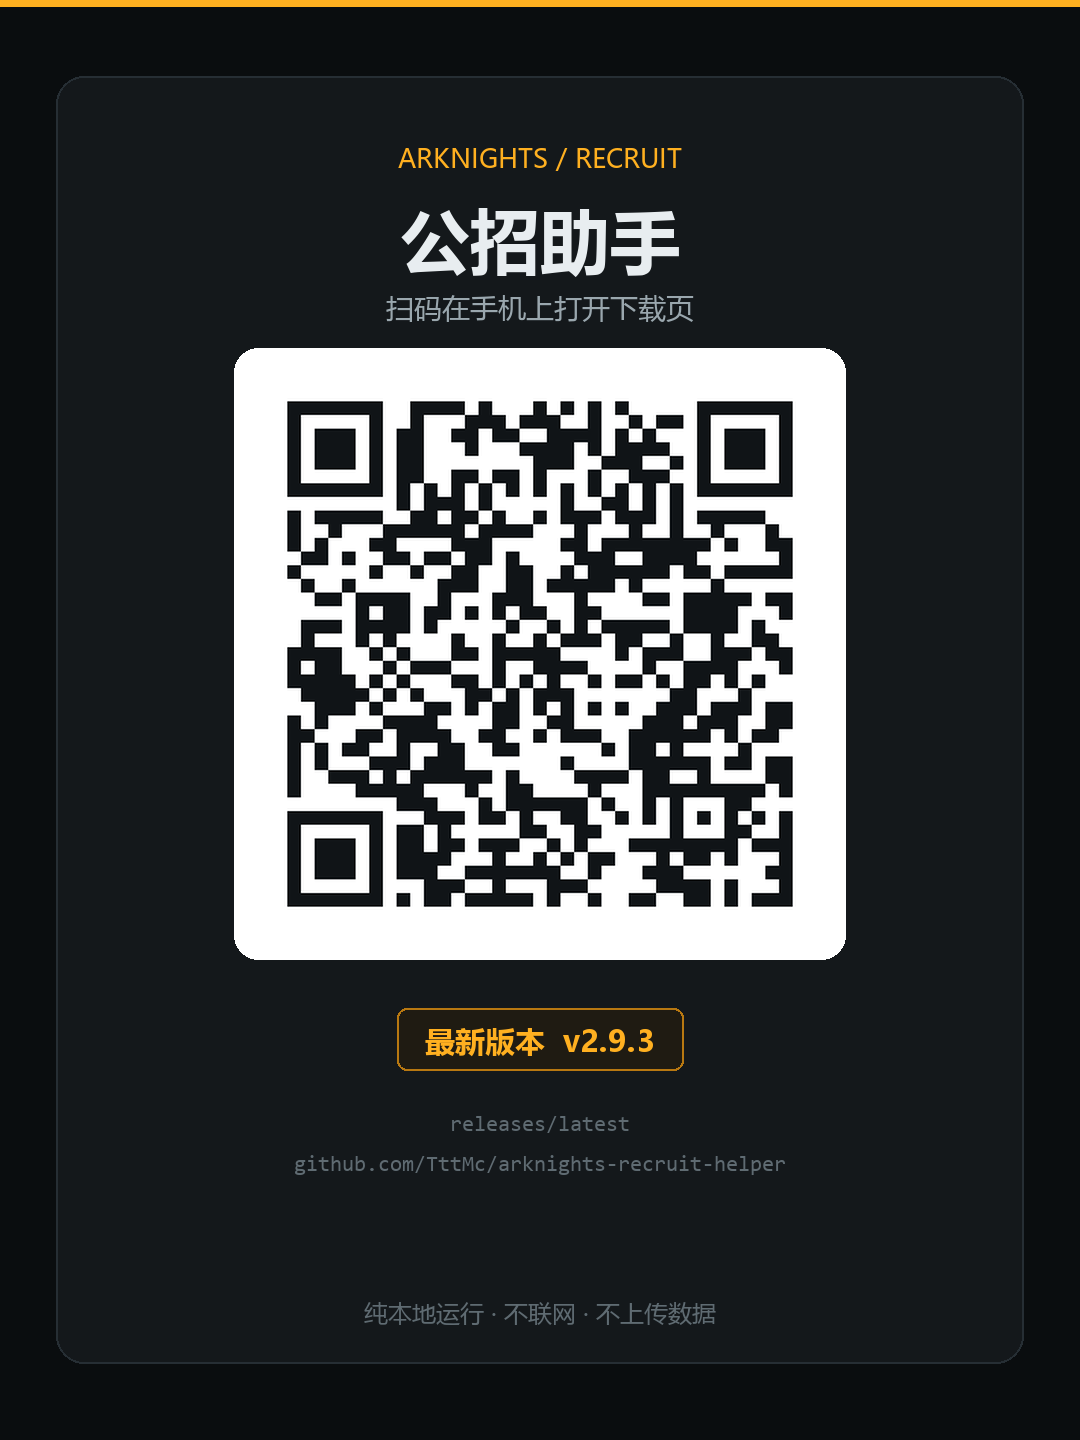
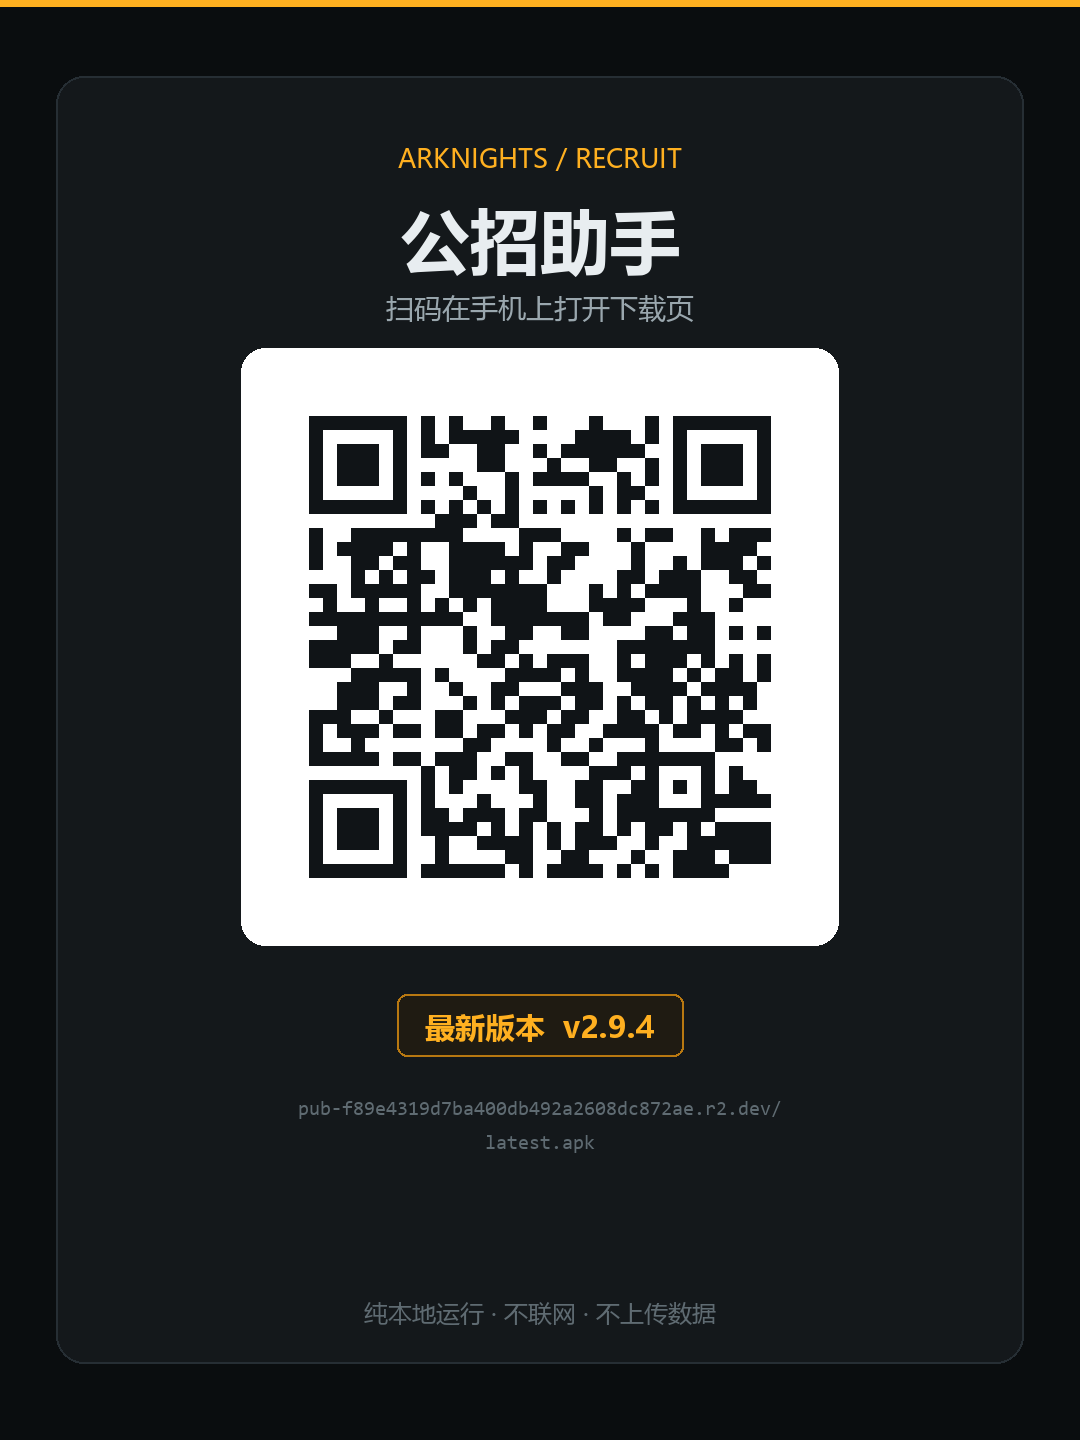
feat: default download via Cloudflare R2 (16x faster in CN)
实测同一台机器同一个包：GitHub 17 KB/s，R2 275 KB/s。
- MainActivity: 主按钮改指 R2 latest.apk，GitHub 降为次要入口
- make-qr.py: 默认 URL 换成 R2；修复 QR 缩放导致无法解码的 bug
  （LANCZOS 非整数倍缩放会把模块边缘插值成灰边，pyzbar/手机扫不出来；
   改为按模块数反算整数 box_size 直接渲染，不做 resize）
- README: 双下载入口、R2 发布流程、arm64 说明
- 重新生成二维码（已用 pyzbar 验证可解码）

Changed region(s): [[0.2139, 0.25, 0.7944, 0.8125], [0.275, 0.75, 0.3361, 0.8125], [0.6722, 0.7812, 0.7028, 0.8125]]

diff --git a/src/com/ark/recruit/MainActivity.java b/src/com/ark/recruit/MainActivity.java
@@ -32,13 +32,19 @@ public class MainActivity extends Activity {
     static final String KEY_RC = "proj_result_code";
 
     /**
-     * 发布页地址（永远指向最新一份 Release）。
+     * 默认下载地址：Cloudflare R2（国内下得动）。
      *
-     * ★ 改仓库名时只改这一行 ★
-     * /releases/latest 是 GitHub 的固定重定向，新版本传上去后这个地址不变，
-     * 所以不需要每次发版都改代码。用户在浏览器里还能顺手存成书签。
+     * ★ 发新版后不用改这里 ★ —— R2 上固定有一个 latest.apk，每次发布覆盖它。
+     *
+     * 为什么默认不用 GitHub：实测国内直连 github.com 只有约 17 KB/s
+     * （15MB 要下 15 分钟以上，还经常断），而同一个包从 R2 拉是约 286 KB/s，
+     * 快 17 倍。GitHub 发布页仍然保留，作为境外用户和归档入口。
      */
-    private static final String RELEASE_LATEST_URL =
+    private static final String DOWNLOAD_URL =
+            "https://pub-f89e4319d7ba400db492a2608dc872ae.r2.dev/latest.apk";
+
+    /** 备用入口：GitHub 发布页（境外快、且能看到版本说明与源码） */
+    private static final String RELEASE_PAGE_URL =
             "https://github.com/TttMc/arknights-recruit-helper/releases/latest";
 
     private int lastResultCode = 0;
@@ -223,20 +229,20 @@ public class MainActivity extends Activity {
         card.addView(headRow);
 
         TextView tip = Ui.tv(this,
-                "本机版本如上。下方按钮用浏览器打开 GitHub 发布页，"
-                + "App 自身不联网。", 10.5f, Ui.TEXT3);
+                "本机版本如上。点下方按钮用浏览器打开下载地址，App 自身不联网。",
+                10.5f, Ui.TEXT3);
         tip.setPadding(0, Ui.dp(this, 6), 0, Ui.dp(this, 10));
         card.addView(tip);
 
         LinearLayout btnRow = Ui.row(this);
 
-        TextView open = Ui.tv(this, "获取最新版", 13f, Ui.VOID);
+        TextView open = Ui.tv(this, "下载最新版", 13f, Ui.VOID);
         open.setTypeface(Ui.med());
         open.setGravity(Gravity.CENTER);
         open.setBackground(Ui.round(Ui.AMBER, 0, 0, Ui.dp(this, 6)));
         open.setPadding(0, Ui.dp(this, 11), 0, Ui.dp(this, 11));
         open.setOnClickListener(new View.OnClickListener() {
-            public void onClick(View v) { openReleasePage(); }
+            public void onClick(View v) { openUrl(DOWNLOAD_URL); }
         });
         btnRow.addView(open, new LinearLayout.LayoutParams(0,
                 LinearLayout.LayoutParams.WRAP_CONTENT, 1f));
@@ -251,43 +257,57 @@ public class MainActivity extends Activity {
                 LinearLayout.LayoutParams.WRAP_CONTENT);
         cpLp.leftMargin = Ui.dp(this, 8);
         copy.setLayoutParams(cpLp);
-        // 复制按钮是给「打不开 GitHub」准备的退路：地址拿去别处用
+        // 复制按钮是给「打不开浏览器」准备的退路：地址拿去电脑或别处下载
         copy.setOnClickListener(new View.OnClickListener() {
-            public void onClick(View v) { copyReleaseUrl(); }
+            public void onClick(View v) { copyUrl(DOWNLOAD_URL); }
         });
         btnRow.addView(copy);
 
         card.addView(btnRow);
 
-        TextView url = Ui.tv(this, RELEASE_LATEST_URL, 9.5f, Ui.TEXT3);
+        TextView url = Ui.tv(this, DOWNLOAD_URL, 9.5f, Ui.TEXT3);
         url.setPadding(0, Ui.dp(this, 8), 0, 0);
         card.addView(url);
+
+        // 备用入口：GitHub 发布页。放成一行小字链接而不是第二个按钮，
+        // 免得主次不分 —— 默认路径是 R2。
+        TextView alt = Ui.tv(this, "GitHub 发布页（版本说明 / 源码）›", 10.5f, Ui.TEXT2);
+        alt.setPadding(0, Ui.dp(this, 8), 0, 0);
+        alt.setOnClickListener(new View.OnClickListener() {
+            public void onClick(View v) { openUrl(RELEASE_PAGE_URL); }
+        });
+        card.addView(alt);
 
         return card;
     }
 
-    /** 用浏览器打开发布页。ActivityNotFoundException 必须处理：精简 ROM 可能没有浏览器 */
-    private void openReleasePage() {
+    /**
+     * 用浏览器打开 URL。
+     *
+     * ★ 这里不需要 INTERNET 权限 ★ —— 发请求的是浏览器进程，本应用只递了个字符串。
+     * ActivityNotFoundException 必须处理：精简 ROM 可能没有浏览器，
+     * 此时退回复制地址，不能让人卡在点不动的按钮上。
+     */
+    private void openUrl(String url) {
         try {
-            Intent i = new Intent(Intent.ACTION_VIEW, Uri.parse(RELEASE_LATEST_URL));
+            Intent i = new Intent(Intent.ACTION_VIEW, Uri.parse(url));
             i.addFlags(Intent.FLAG_ACTIVITY_NEW_TASK);
             startActivity(i);
         } catch (Throwable t) {
-            // 打不开就给退路，不要让人卡死在这个按钮上
-            copyReleaseUrl();
+            copyUrl(url);
             toast("没有可用浏览器，地址已复制");
         }
     }
 
-    private void copyReleaseUrl() {
+    private void copyUrl(String url) {
         try {
             android.content.ClipboardManager cm = (android.content.ClipboardManager)
                     getSystemService(CLIPBOARD_SERVICE);
             cm.setPrimaryClip(android.content.ClipData
-                    .newPlainText("公招助手发布页", RELEASE_LATEST_URL));
+                    .newPlainText("公招助手下载地址", url));
             toast("地址已复制，可用浏览器打开");
         } catch (Throwable t) {
-            toast("复制失败：" + RELEASE_LATEST_URL);
+            toast("复制失败：" + url);
         }
     }
 

diff --git a/tools/make-qr.py b/tools/make-qr.py
@@ -31,7 +31,9 @@ TEXT3 = (0x5F, 0x6B, 0x72)
 AMBER = (0xFF, 0xB0, 0x20)
 INK = (0x10, 0x14, 0x17)   # QR 模块色（近黑，非纯黑更柔和）
 
-DEFAULT_URL = "https://github.com/TttMc/arknights-recruit-helper/releases/latest"
+# 默认指向 Cloudflare R2 上的 latest.apk：
+# 实测国内直连 GitHub 约 17 KB/s（15MB 要下十几分钟），R2 约 275 KB/s，快 16 倍。
+DEFAULT_URL = "https://pub-f89e4319d7ba400db492a2608dc872ae.r2.dev/latest.apk"
 
 
 def find_font(size, bold=False):
@@ -68,17 +70,44 @@ def find_mono(size):
     return ImageFont.load_default()
 
 
-def make_qr(url, box_px=560):
+def make_qr(url, target_px=560, border=3):
+    """
+    生成二维码位图，**不做插值缩放**。
+
+    ★ 为什么不能用 resize ★
+    最初写成 box_size=10 生成再 LANCZOS 缩放到 560px，结果肉眼看着没问题，
+    但 pyzbar / 多数手机扫码器都解不出来：非整数倍缩放会把模块边缘插值成
+    灰色细带，二值化之后模块宽度不再是整齐的整数像素，采样点落在边界上就废了。
+
+    正确做法是先 make(fit=True) 拿到模块数，再反算一个整数 box_size，
+    让每个模块恰好占 N×N 个像素。这样输出尺寸略有浮动（可能 520 或 574），
+    但一定能扫。尺寸浮动用居中粘贴吸收掉。
+    """
     qr = qrcode.QRCode(
         version=None,
         error_correction=ERROR_CORRECT_M,
         box_size=10,
-        border=2,
+        border=border,
     )
     qr.add_data(url)
     qr.make(fit=True)
-    img = qr.make_image(fill_color=INK, back_color=(255, 255, 255)).convert("RGB")
-    return img.resize((box_px, box_px), Image.LANCZOS)
+    modules = qr.modules_count  # 不含 border 的有效模块数
+
+    # 反算整数 box_size：总边长 = (modules + 2*border) * box
+    # 注意 box_size 必须在构造 QRCode 时就定好 —— qrcode 的 make_image()
+    # 不接受 box_size 参数（会撞 BaseImage.__init__ 的重复实参）。
+    total_units = modules + border * 2
+    box = max(1, round(target_px / total_units))
+
+    qr2 = qrcode.QRCode(
+        version=qr.version,
+        error_correction=ERROR_CORRECT_M,
+        box_size=box,
+        border=border,
+    )
+    qr2.add_data(url)
+    qr2.make(fit=False)
+    return qr2.make_image(fill_color=INK, back_color=(255, 255, 255)).convert("RGB")
 
 
 def rounded_card(size, radius, fill, outline=None, width=1):
@@ -133,10 +162,12 @@ def build(url, out_path, version="v2.9.3"):
     y += 60
 
     # ---- 二维码（白底深模块，扫码最稳）----
-    qr_size = 560
-    qr = make_qr(url, qr_size)
+    # 注意：qr 的实际边长由整数 box_size 决定，会在 560 附近浮动几十像素，
+    # 所以白卡尺寸按 qr 实测尺寸反推，而不是用写死的 qr_size。
+    qr = make_qr(url, 560)
+    qw, qh = qr.size
     pad = 26
-    box_size = (qr_size + pad * 2, qr_size + pad * 2)
+    box_size = (qw + pad * 2, qh + pad * 2)
     qr_card, qr_mask = rounded_card(box_size, 24, (255, 255, 255))
     qx = cx - box_size[0] // 2
     canvas.paste(qr_card, (qx, y), qr_mask)
@@ -155,12 +186,10 @@ def build(url, out_path, version="v2.9.3"):
     y += bh + 44
 
     # ---- 直链（等宽，可手动抄）----
-    f_mono = find_mono(22)
-    d.text((cx - d.textlength("releases/latest", font=f_mono) / 2, y),
-           "releases/latest", font=f_mono, fill=TEXT3)
-    y += 40
-    host = "github.com/TttMc/arknights-recruit-helper"
-    d.text((cx - d.textlength(host, font=f_mono) / 2, y), host, font=f_mono, fill=TEXT3)
+    f_mono = find_mono(20)
+    for line in short_url_lines(url):
+        d.text((cx - d.textlength(line, font=f_mono) / 2, y), line, font=f_mono, fill=TEXT3)
+        y += 34
 
     # ---- 底部提示 ----
     # 位置由卡片底边反推，避免像原来那样贴着边框（看起来像被切掉）
@@ -172,6 +201,18 @@ def build(url, out_path, version="v2.9.3"):
 
     canvas.save(out_path, "PNG", optimize=True)
     return out_path
+
+
+def short_url_lines(url):
+    """把 URL 拆成适合在卡片上排版的 1~2 行（去掉协议头）。"""
+    s = url.replace("https://", "").replace("http://", "")
+    if len(s) <= 34:
+        return [s]
+    # 在第一个 / 之后断开
+    i = s.find("/")
+    if 0 < i < len(s) - 1:
+        return [s[: i + 1], s[i + 1 :]]
+    return [s[: len(s) // 2], s[len(s) // 2 :]]
 
 
 def main():

diff --git a/README.md b/README.md
@@ -17,13 +17,20 @@
 - **口径区分保底与赌注**：清楚区分「时长保底」（标签全被划也至少拿到）
   与「标签命中」（有风险），不把上限当保底忽悠你
 - **可手动修正**：OCR 认错时面板里有输入框，改完点「重算」
-- **arm64 + armeabi-v7a**，不需要 Google 服务框架
+- **arm64（64 位 ARM）**，不需要 Google 服务框架，15.5 MB
 
 ## 安装
 
 ![扫码下载](design/qr-release.png)
 
-1. 手机扫码，或到 [Releases](https://github.com/TttMc/arknights-recruit-helper/releases/latest) 下载最新 APK
+1. 手机扫码，或直接打开下载地址：
+
+   **国内推荐**：<https://pub-f89e4319d7ba400db492a2608dc872ae.r2.dev/latest.apk>
+   （Cloudflare R2，实测约 275 KB/s）
+
+   **境外 / 看版本说明**：[Releases](https://github.com/TttMc/arknights-recruit-helper/releases/latest)
+   （GitHub，境内直连只有约 17 KB/s，15 MB 要下十几分钟，不建议）
+
 2. 手机允许「安装未知来源应用」后安装
 3. 打开 App，依次完成三步：
 
@@ -119,8 +126,9 @@ aapt dump permissions build/outputs/apk/release/*.apk
 
 结果应只有上面 4 条，外加系统自动生成的 `DYNAMIC_RECEIVER_NOT_EXPORTED_PERMISSION`。
 
-因为这个约束，App 内**不会自动检查更新**——「获取最新版」按钮只是把发布页地址交给
-系统浏览器打开（真正发请求的是浏览器），App 自身一个字节都不联网。
+因为这个约束，App 内**不会自动检查更新**——「下载最新版」按钮只是把下载地址交给
+系统浏览器打开（真正发请求的是浏览器进程，本应用只递了个字符串），
+App 自身一个字节都不联网。
 
 ## 构建
 
@@ -173,6 +181,29 @@ build-and-serve.cmd --serve    # 只起服务，不重新编译
 
 只读服务，只暴露 `build/outputs/apk/release/*.apk`，不列目录、不接受上传。
 
+### 发布到公网
+
+两条腿：GitHub 存代码与版本归档，Cloudflare R2 供国内下载。
+
+```bash
+# 1. 传 APK 到 R2（会同时更新 latest.apk 和 update.json）
+R2_ACCOUNT_ID=... R2_ACCESS_KEY_ID=... R2_SECRET_ACCESS_KEY=... \
+R2_BUCKET=tmc-pj-01 R2_PUBLIC_BASE=https://pub-xxxx.r2.dev \
+node tools/publish-r2.mjs
+
+# 2. 重新生成二维码卡片
+python tools/make-qr.py --version v2.9.5
+```
+
+`publish-r2.mjs` 只依赖 Node 内置模块，自己实现了 AWS SigV4 签名，不需要装 AWS SDK。
+
+**为什么默认走 R2**：实测同一台机器、同一个包，
+GitHub 约 **17 KB/s**（15 MB 要下十几分钟还常断），R2 约 **275 KB/s**，快 16 倍。
+GitHub 仍然是源码和版本说明的正式入口，R2 只是下载镜像。
+
+> R2 免费额度：10 GB 存储 + 出网流量全免费，单对象最大 5 TB。
+> 代价是要在 Cloudflare 绑一个支付方式（Free 计划不扣钱）。
+
 ### 算法回归测试
 
 `Recruit` 不依赖任何 Android 类，可以脱 SDK 单独编译测试：
@@ -200,6 +231,9 @@ build-and-serve.cmd --serve    # 只起服务，不重新编译
 - **横屏帧方向未在所有机型验证**：`InputImage` 的 rotation 恒传 0。
   若某机型交上来的帧本身转了 90°，会表现为「没识别到标签」
 - **干员数据是静态快照**，新干员进池后需要手动更新（见上）
+- **只支持 arm64**：为了把体积从 22 MB 降到 15.5 MB，去掉了 32 位 ARM 的库。
+  2016 年前的 32 位设备装不上；要兼顾的话在 `build.gradle` 里加回
+  `abiFilters 'arm64-v8a', 'armeabi-v7a'`
 
 ## 免责声明
 
